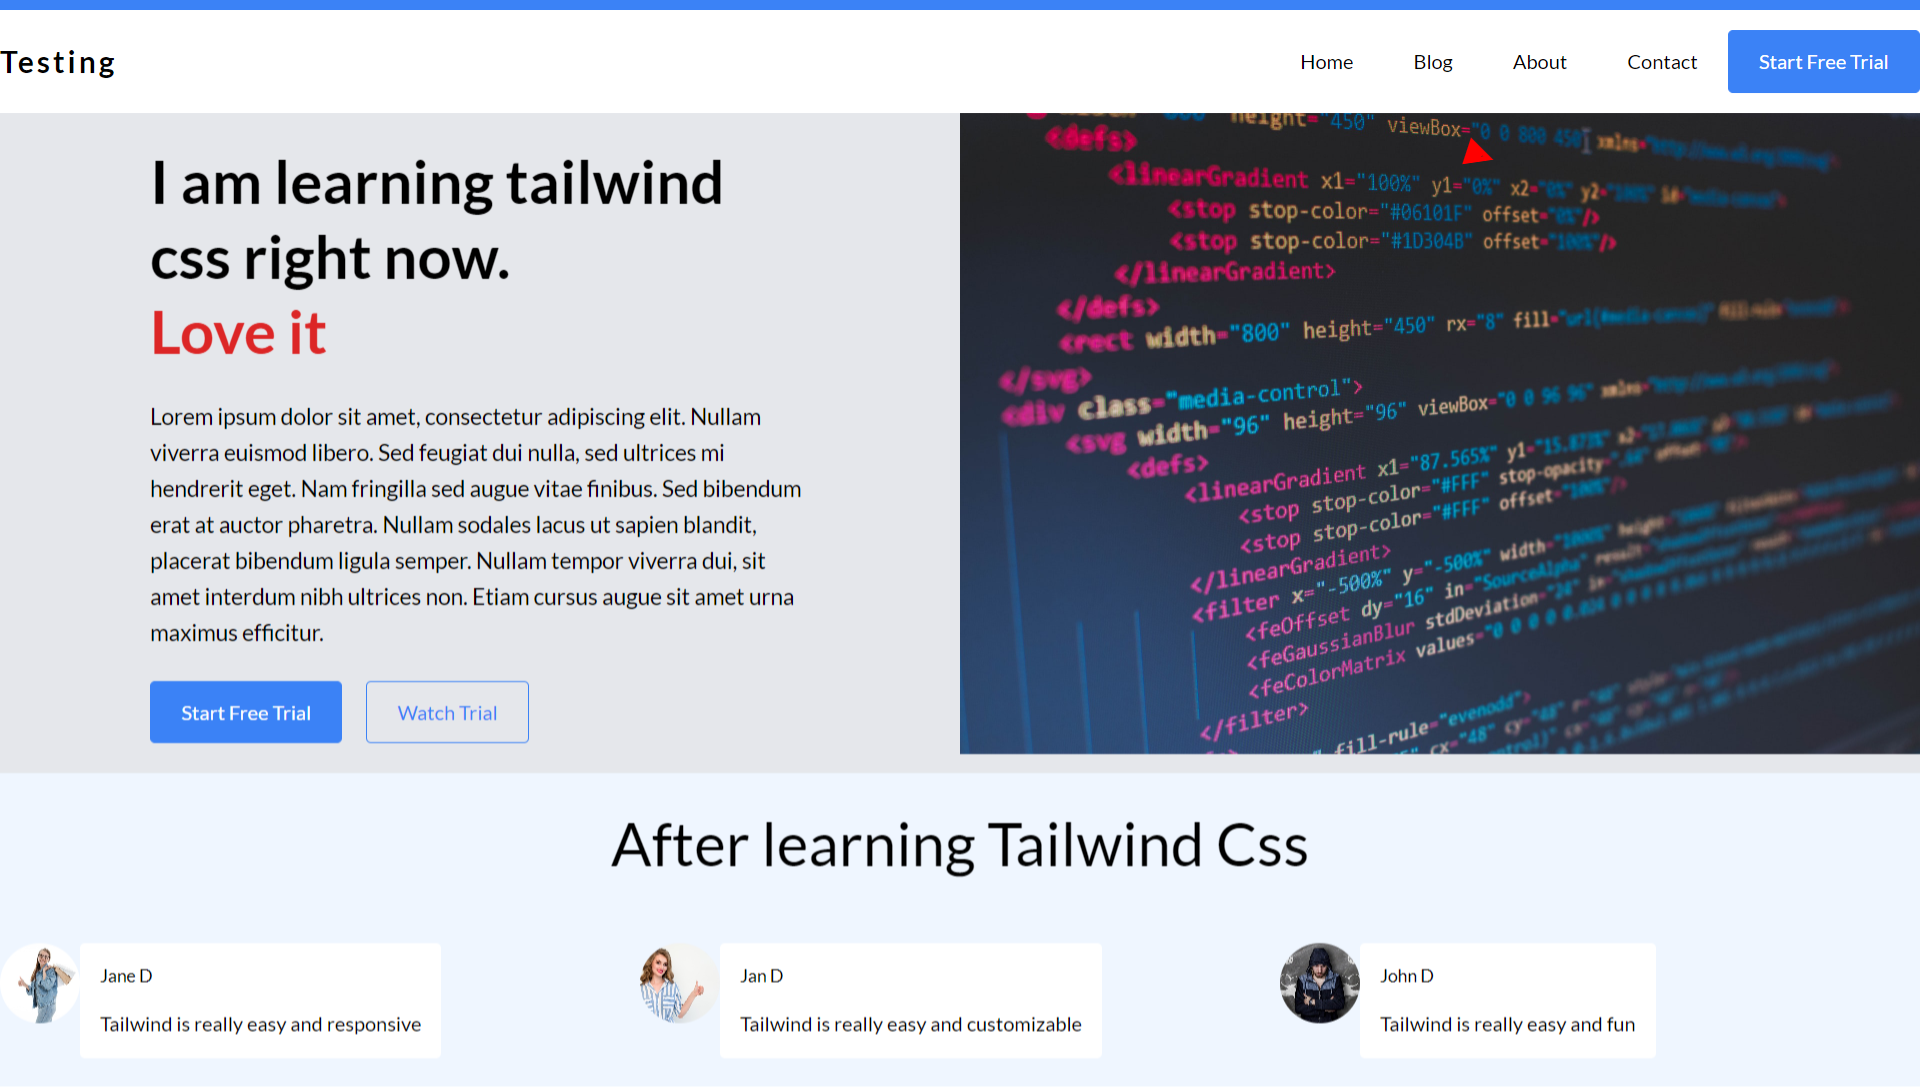
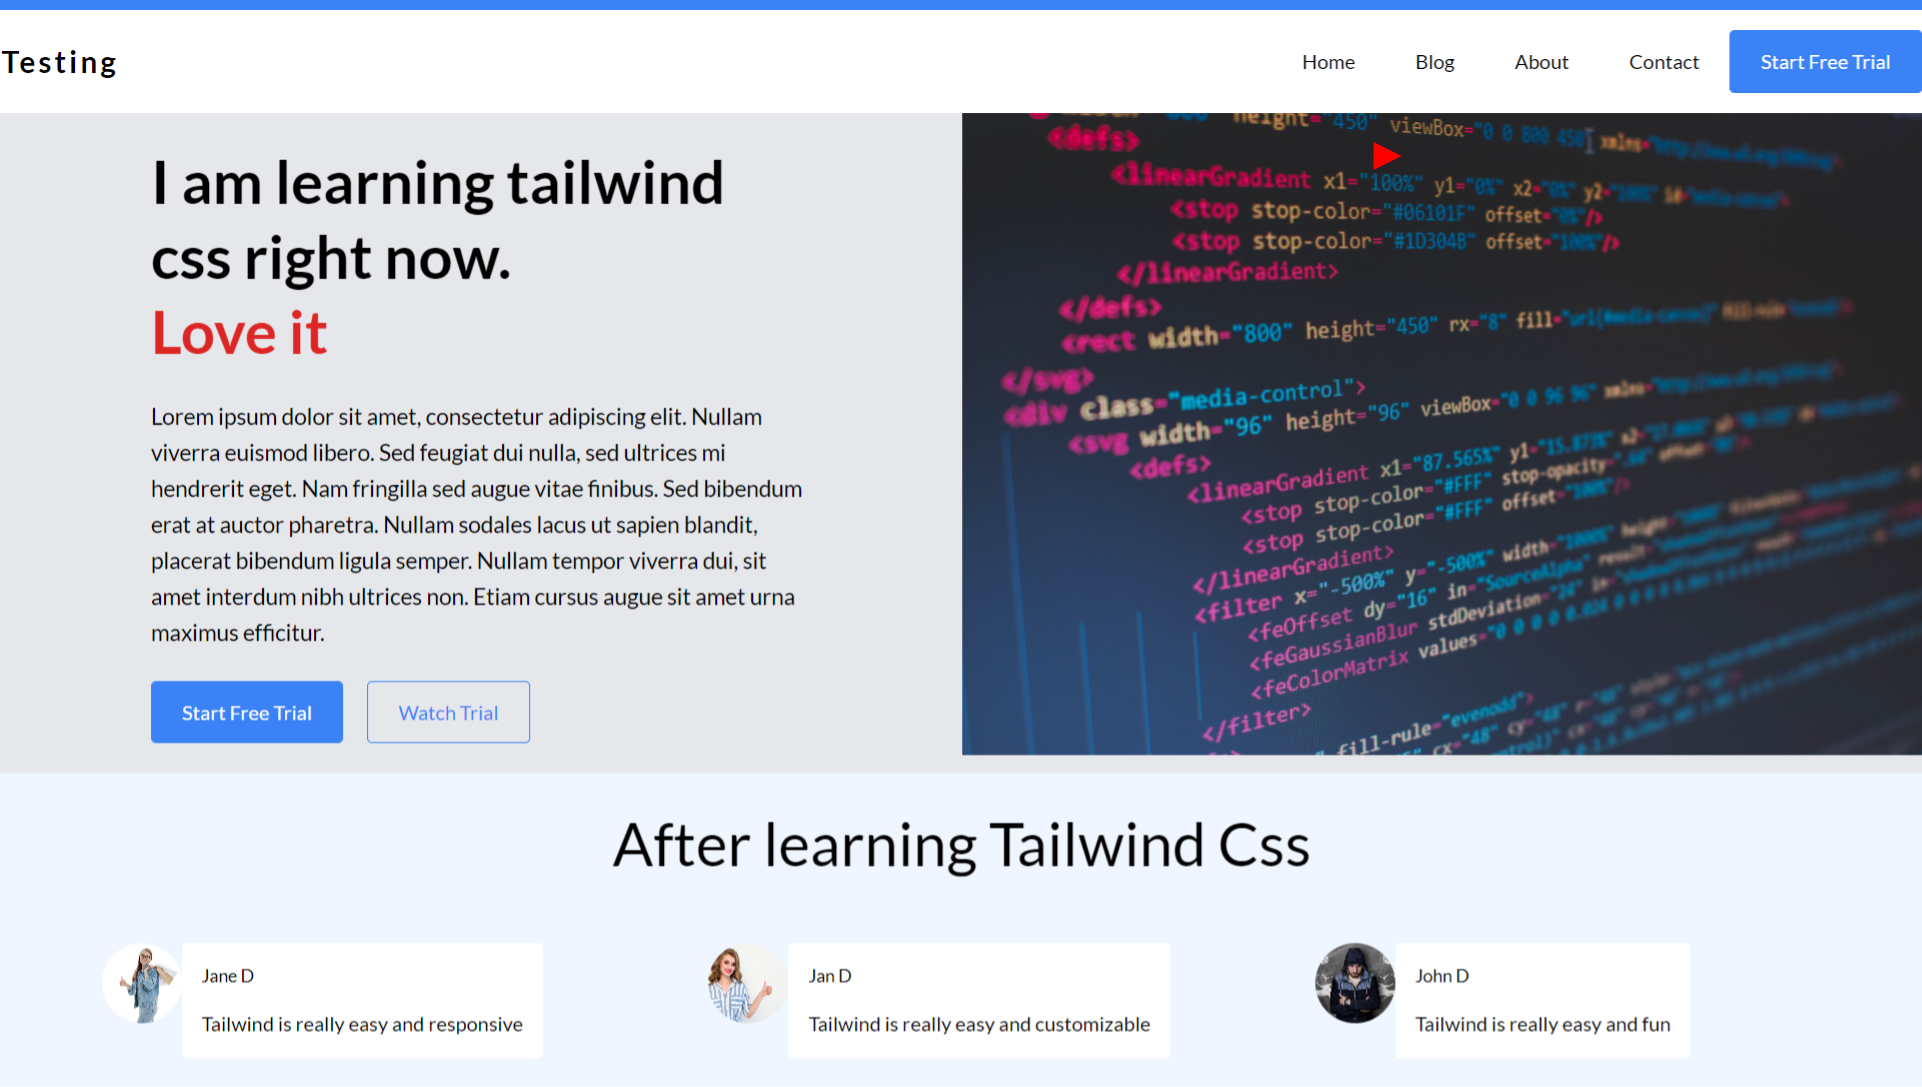
final commit

diff --git a/index.html b/index.html
@@ -56,7 +56,7 @@
         <section class="bg-blue-50">
             <div class="container mx-auto">
                 <p class="pt-8 mb-8 text-5xl text-center"> After learning Tailwind Css</p>
-                <div class="flex flex-wrap ">
+                <div class="flex flex-wrap pl-20 justify-evenly">
                     <div class="flex w-full my-6 lg:w-1/3">
                         <img src="girl.jpg" class="w-16 h-16 rounded-full" style="object-fit: cover;" alt="" />
                         <div class="p-4 mr-10 bg-white rounded">
